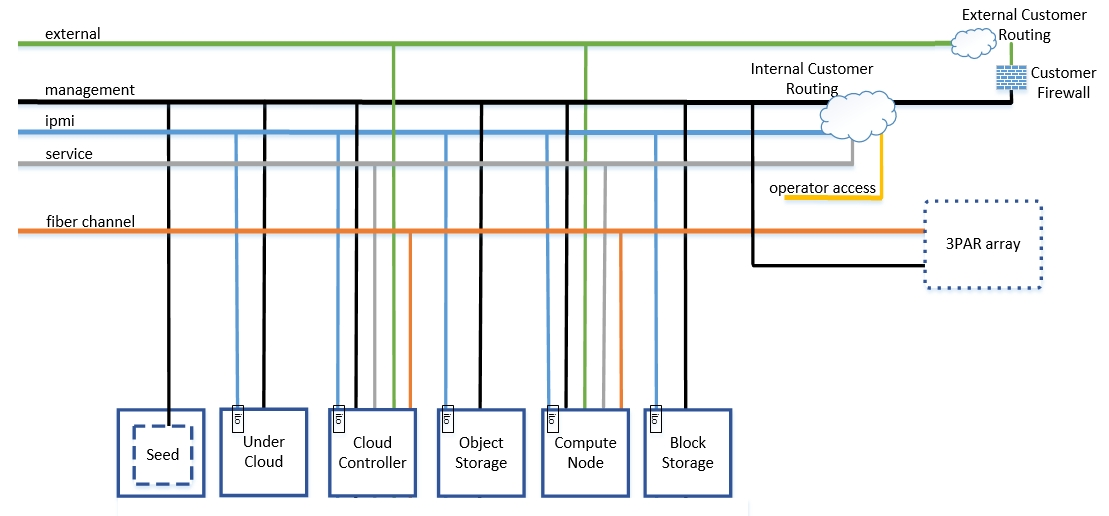
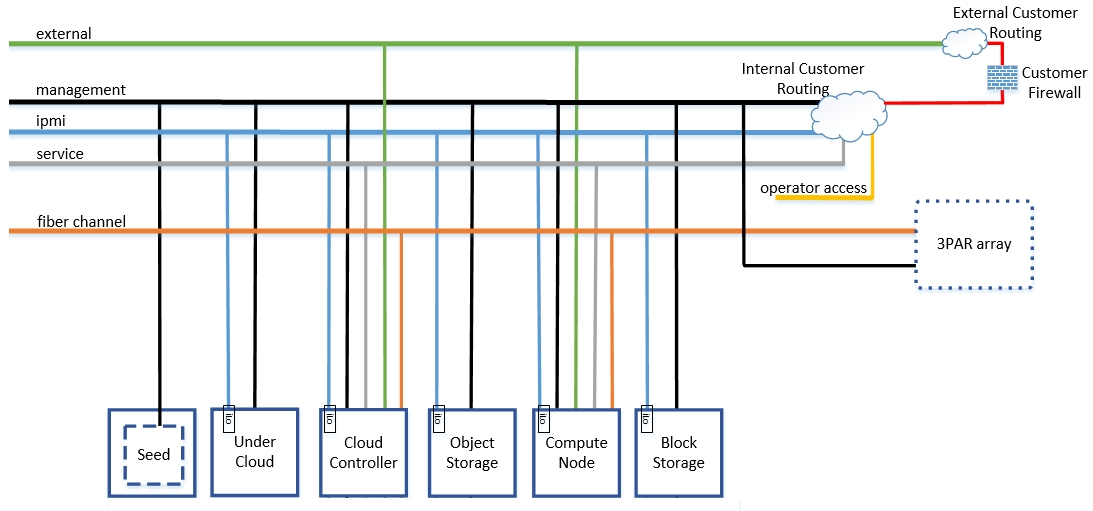
new draft based on David Graves comment; updated images

diff --git a/commercial/GA1/commercial.install-GA-security.md b/commercial/GA1/commercial.install-GA-security.md
@@ -34,7 +34,9 @@ In the diagram above, the customer’s devices that perform routing are depicted
 
 ## Securing the Perimeter<a name="perimeter"></a>
 
-To protect against external attack on Helion services, your firewall should be configured with a rule to block any request originating from outside the network attempting to reach the Seed, the Undercloud Controller, the Swift Object nodes, and any 3PAR StoreServ or StoreVirtual VSA appliances dedicated to the Helion installation, as indicated in this table:
+The perimeter is indicated by the *customer firewall* icon in the previous diagram.
+
+To protect against external attack on Helion services, your firewall should be configured with a rule to block any request originating from outside the network attempting to reach any of the HP Helion OpenStack nodes or any 3PAR StoreServ  or StoreVirtual VSA appliances dedicated to the Helion installation, as indicated in this table:
 
 <table style="text-align: left; vertical-align: top; width:650px;">
 <tr style="background-color: lightgrey; color: black;">
@@ -43,13 +45,11 @@ To protect against external attack on Helion services, your firewall should be c
 <tr>
 <td>User requests to API endpoints and Horizon console</td><td>External network</td><td>Cloud Controller Nodes</td><td>80, 443</td>
 </tr>
-<tr>
-<td>Access to user applications running as Nova VMs</td><td>External network</td><td>Compute Nodes</td><td>Only ports required by your enterprise applications</td>
-</tr>
 <td>Administrator access via SSH</td><td>Your enterprise intranet / VPN</td><td>All Helion nodes</td><td>22</td>
 </tr>
 </table>
 
+You need to allow traffic to flow to and from the External network (indicated in green in the previous diagram) from outside the cloud, as needed by the applications running in your Virtual Machines.  
 
 ## Securing the Swift back-end network connections<a name="back-end"></a>
 
